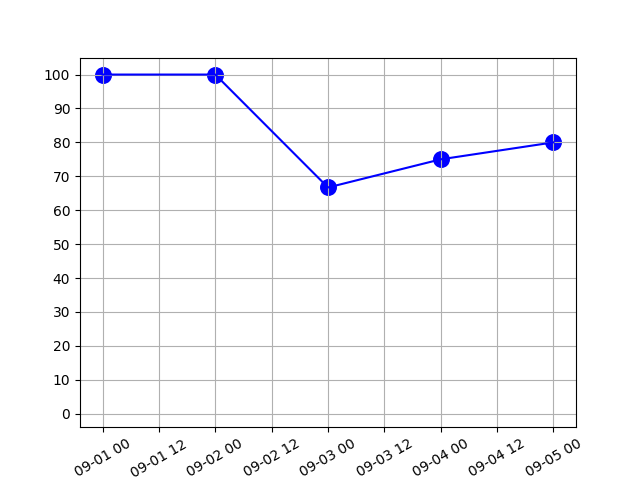
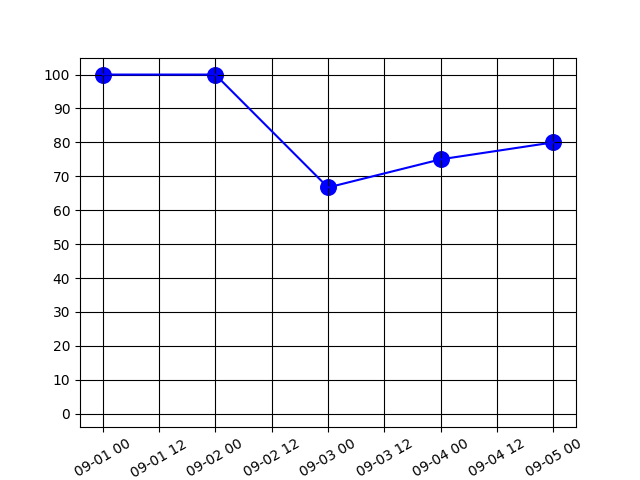
main

diff --git a/templates/student_detail.html b/templates/student_detail.html
@@ -11,12 +11,17 @@
     {{ params.student.id }}
     {{ params.student.name }}
     <img src="/{{ params.image }}" />
-    {% for testkey, testname in params.test_names.items() %}
     <form action="/view_profile/{{ params.student.id }}"  methods="POST">
 
-      <input type="submit" value="{{ testname }}" name="{{ testkey }}">
+      <input type="submit" value="出席率">
+    </form>
+    {% for testkey, testname in params.test_names.items() %}
+    <form action="/view_profile/{{ params.student.id }}/score_graph_{{testkey}}"  methods="POST">
+
+      <input type="submit" value="{{ testname }}">
+    </form>
     {% endfor %}
-</form>
+
 </body>
 </html>
 

diff --git a/app.py b/app.py
@@ -1,9 +1,12 @@
 
 from datetime import datetime
-import datetime#DBあったらいらないかも？
+import datetime
+from unittest.mock import patch#DBあったらいらないかも？
 import psycopg2.extras
 from matplotlib.figure import Figure
 import matplotlib.pyplot as plt
+import matplotlib  # <--ここを追加
+matplotlib.use('Agg')
 from matplotlib.backends.backend_agg import FigureCanvasAgg
 import pandas as pd
 import numpy as np
@@ -241,7 +244,11 @@ def edit_score():
                 if student["id"] == request.form["id"]:
                     for i in range(1, len(student["test"])+1):
                         # 選択した学生のテストの点数を入れる
-                        student["test"][f"test{i}"] = request.form.get(f"test{i}")
+                        try:
+                            student["test"][f"test{i}"] = int(request.form.get(f"test{i}"))
+                        except ValueError:
+                            msg = "点数に文字は入れれません"
+                            
                     # 備考追加
                     student["note"] = request.form["note"]    
                     break
@@ -287,8 +294,10 @@ def edit_test_name():
 def view_profile(student_id):
     # if session["loggedin"] == True: 
         if request.method=="GET":
+            print("AAAAAAAAAAAAAAAAAA")
             for student in students:
                 if student["id"] == student_id:
+
                     # 日付
                     x = list(student["rate_history"].keys())
                     # 出席率
@@ -296,48 +305,62 @@ def view_profile(student_id):
                     # 日付をDATE型に変更
                     x_dt = pd.to_datetime(x, errors='coerce')
                     # 出席率のグラフ作成表示
+                    
                     fig, ax = plt.subplots()
-                    ax.plot(x_dt, y, color="blue")
+                    plt.plot(x_dt, y, color="blue")
                     ax.set_ylim(-4,105,5)
-                    plt.grid(True)
+                    plt.grid(c="black")
                     plt.scatter(x, y, marker="o", color="blue", s=125)
                     plt.xticks(rotation=30)
                     plt.yticks(np.arange(-0, 110, step=10))
                     #　出席率のグラフの保存
                     path = f"static/graph_images/{student_id}.png"
-                    plt.savefig(path)
-
-# パラメータの設定
+                    plt.savefig(path)  
+# パラメータの  
                     params = {
                          "student": student,
                          "image": path,
                          "test_names": test_names
                     }
                     return render_template("student_detail.html", params=params)
-        if request.method=="POST":  
-            x = []  
-            for key in test_names.keys():
-                if request.form[key]:
-                    test_key = request.form[key]
+        # return redirect(url_for("login"))   
+@app.route("/view_profile/<student_id>/score_graph_<test_key>",methods=["GET","POST"])                      
+def histogram(student_id, test_key):
+    if request.method=="GET":  
 
-            for student in students:
-                x.append(student["test"][test_key])
-            fig, ax = plt.subplots()
-            ax.hist(x)
-            path = f"static/graph_images/{student_id}_{test_key}.png"
-            plt.savefig(path)
-            for student in students:
-                if student["id"] == student_id:
+        x = []  
+        for student in students:
+            x.append(student["test"][test_key])
+        sorted_x = list(set(sorted(x, reverse=True)))
+        print(sorted_x)
+        fig, ax = plt.subplots()
+        y = range(1, len(sorted_x)+1) 
+        for student in students:
 
+            if student["id"] == student_id:
+                color = ["red" if i == student["test"][test_key] else "blue" for i in sorted_x]
+        ax.bar(y,sorted_x,color=color)
+        plt.title(f"{test_names[test_key]}")
+        # そのテスト受講者の学生の人数分
+        plt.xlim(0.5,len(x)+0.5)
+        plt.xticks(np.arange(1, len(x)+1, step=1))
+        plt.ylabel("点数")
+        plt.grid(c="black")
+        plt.tick_params(labelsize = 10)
+
+
+        path = f"static/graph_images/{student_id}_{test_key}.png"
+        plt.savefig(path)
+        for student in students:
+            if student["id"] == student_id:
+                
                     params = {
                         "image": path,
                         "test_names": test_names,
                         "student": student
-                    }
-
+                                }
                     return render_template("student_detail.html", params=params)
-            return redirect(url_for("login"))
-    # return redirect(url_for("login"))
+        return redirect(url_for("login"))
     
     
 if __name__ == "__main__":

diff --git a/test.py b/test.py
@@ -3,37 +3,65 @@ import matplotlib.pyplot as plt
 import numpy as np
 import matplotlib.dates as mdates
 import pandas as pd
-students = [
-            {"id":"2004230011", "name":"西結都","test":{"test1": ""},"note":"", "date":{"2022-09-01":"attend","2022-09-02":"attend","2022-09-03":"attend","2022-09-04":"attend","2022-09-05":"absence"},"rate":"","rate_history":{"2022-09-01":100, "2022-09-02":100,"2022-09-03":66.7,"2022-09-04":75,}},
-            {"id":"2222222222", "name":"古賀慶次郎","test":{"test1": ""},"note":"", "date":{"2022-09-01":"absence","2022-09-02":"attend","2022-09-03":"attend","2022-09-04":"absence","2022-09-05":"attend"},"rate":"","rate_history":{"2022-09-01":100, "2022-09-02":100,"2022-09-03":66.7,"2022-09-04":75,}},
-            {"id":"3333333333", "name":"中村太一","test":{"test1": ""},"note":"", "date":{"2022-09-01":"absence","2022-09-02":"attend","2022-09-03":"absence","2022-09-04":"absence","2022-09-05":"absence"},"rate":"","rate_history":{"2022-09-01":0, "2022-09-02":50,"2022-09-03":66.7,"2022-09-04":75,}},
-            ]
-#### test
-for student in students:
-    attend = 0
-    total = len(student["date"])
-    for key, value in student["date"].items():
-        if value=="attend":
-            attend += 1
-        last_key_name = key
-    student["rate"] = round(attend / total * 100, 1)
-    student["rate_history"][f'{last_key_name}'] = student["rate"]
+from matplotlib.figure import Figure
+import matplotlib.pyplot as plt
+import matplotlib  # <--ここを追加
 
-print(students[0]["rate_history"])
+from matplotlib.backends.backend_agg import FigureCanvasAgg
+# students = [
+#             {"id":"2004230011", "name":"西結都","test":{"test1": ""},"note":"", "date":{"2022-09-01":"attend","2022-09-02":"attend","2022-09-03":"attend","2022-09-04":"attend","2022-09-05":"absence"},"rate":"","rate_history":{"2022-09-01":100, "2022-09-02":100,"2022-09-03":66.7,"2022-09-04":75,}},
+#             {"id":"2222222222", "name":"古賀慶次郎","test":{"test1": ""},"note":"", "date":{"2022-09-01":"absence","2022-09-02":"attend","2022-09-03":"attend","2022-09-04":"absence","2022-09-05":"attend"},"rate":"","rate_history":{"2022-09-01":100, "2022-09-02":100,"2022-09-03":66.7,"2022-09-04":75,}},
+#             {"id":"3333333333", "name":"中村太一","test":{"test1": ""},"note":"", "date":{"2022-09-01":"absence","2022-09-02":"attend","2022-09-03":"absence","2022-09-04":"absence","2022-09-05":"absence"},"rate":"","rate_history":{"2022-09-01":0, "2022-09-02":50,"2022-09-03":66.7,"2022-09-04":75,}},
+#             ]
+# #### test
+# for student in students:
+#     attend = 0
+#     total = len(student["date"])
+#     for key, value in student["date"].items():
+#         if value=="attend":
+#             attend += 1
+#         last_key_name = key
+#     student["rate"] = round(attend / total * 100, 1)
+#     student["rate_history"][f'{last_key_name}'] = student["rate"]
 
-id = "2004230011"
-for student in students:
-    if student["id"] == id:
+# print(students[0]["rate_history"])
 
-        x = list(student["rate_history"].keys())
-        y = list(student["rate_history"].values())
-        x_dt = pd.to_datetime(x)
-        fig = plt.figure(figsize=(12, 8))
-        ax = fig.add_subplot(111)
-        ax.plot(x_dt, y, color="blue")
-        ax.set_ylim(-4,105,5)
-        plt.grid(True)
-        plt.scatter(x, y , marker="o", color="blue", s=125)
-        plt.xticks(rotation=30)
-        plt.yticks(np.arange(-0, 110, step=10))
-        plt.show()
+# id = "2004230011"
+# for student in students:
+#     if student["id"] == id:
+
+#         x = list(student["rate_history"].keys())
+#         y = list(student["rate_history"].values())
+#         x_dt = pd.to_datetime(x)
+#         fig = plt.figure(figsize=(12, 8))
+#         ax = fig.add_subplot(111)
+#         ax.plot(x_dt, y, color="blue")
+#         ax.set_ylim(-4,105,5)
+#         plt.grid(True)
+#         plt.scatter(x, y , marker="o", color="blue", s=125)
+#         plt.xticks(rotation=30)
+#         plt.yticks(np.arange(-0, 110, step=10))
+#         plt.show()
+
+# fig, ax = plt.subplots()
+# num_list=[30,30,30,40,50,70,85,90,94,100]
+# n, bins, patches = plt.hist(num_list)
+# patches[5].set_facecolor('red')
+# plt.xlim(-5,105, 5)
+# plt.grid(c="black")
+# plt.tick_params(labelsize = 10)
+# plt.minorticks_on()
+# plt.xticks(np.arange(-0, 110, step=10))
+# plt.show()
+
+# print(np.arange(90,101,1))
+
+fig, ax = plt.subplots()
+
+x = [100, 80, 50, 20]
+y = range(0, len(x))
+
+
+color = ["red" if i == 20 else "blue" for i in x]
+ax.bar(y,x,color=color)
+plt.show()
